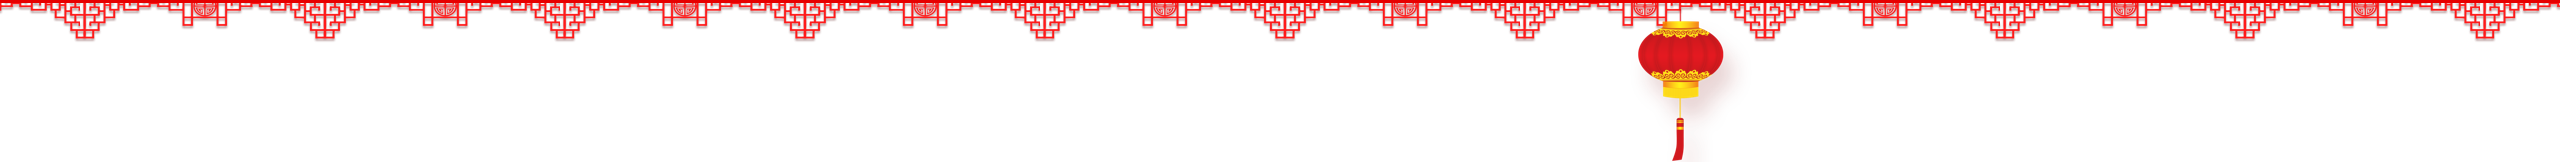
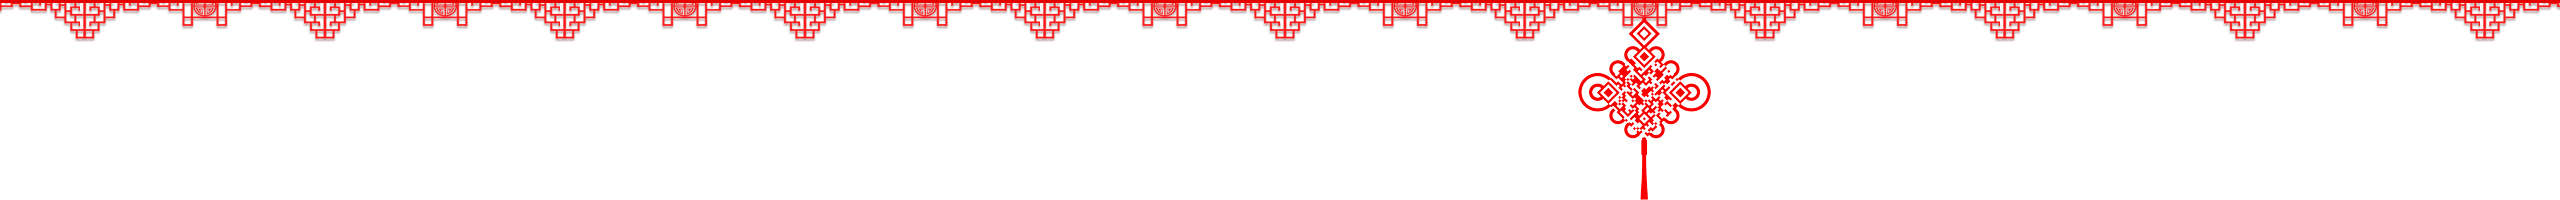
update page

Changed region(s): [[0.0, 0.0, 1.0, 1.0]]

diff --git a/web/src/main/webapp/WEB-INF/templates/_base.html b/web/src/main/webapp/WEB-INF/templates/_base.html
@@ -94,21 +94,22 @@ $(function () {
     {% block head %}<!-- block head  -->{% endblock %}
 </head>
 
-<body style="font-size: 16px; padding: 20px 0;">
-	<div id="main" class="uk-container uk-container-center">
-		<div class="uk-grid" style="margin-top: 10px; margin-bottom: 30px;">
-			<div class="uk-width-1-2">
-				<h1 id="brand"><a href="/">中华诗词</a></h1>
+<body style="font-size: 16px;">
+	<div class="bg-top">
+		<div class="uk-container uk-container-center">
+			<div class="uk-width-1-1">
+				<a href="/" class="logo"></a>
 			</div>
-			<div class="uk-width-1-2">
-			{% if user is null %}
+			<div class="uk-width-1-1">
+				{% if user is null %}
 				<a href="#0" onclick="authFrom('weibo')" class="uk-float-right"><i class="uk-icon-weibo"></i> 微博登录</a>
-			{% else %}
-			    <span class="uk-float-right">欢迎你，{{ user.name }}！ <a href="/auth/signout"><i class="uk-icon-sign-out"></i> 登出</a></span>
-			{% endif %}
+				{% else %}
+			    <span>欢迎你，{{ user.name }}！ <a href="/auth/signout"><i class="uk-icon-sign-out"></i> 登出</a></span>
+				{% endif %}
 			</div>
 		</div>
-
+	</div>
+	<div id="main" class="uk-container uk-container-center">
 		<div class="uk-grid">
 			<div class="uk-width-4-5">
 				朝代：
@@ -159,15 +160,16 @@ $(function () {
             <div class="uk-width-1-3">
             	<p>【微信公众号】<p>
             	<p>关注中华诗词微信公众号，每天清晨为您推送精选诗词。</p>
-            	<p><div style="width: 180px; height: 247px; background-image: url(/static/image/weixin.png); background-repeat: no-repeat;"></div></p>
+            	<p><div style="width: 200px; height: 200px; background-image: url(/static/image/weixin.png); background-repeat: no-repeat;"></div></p>
             </div>
 	    </div>
 
-	    <div class="uk-grid">
-            <div class="uk-width-1-1 uk-text-center">
-            	<p>中华诗词&copy;2014-2017 <a href="/" target="_blank">www.shi-ci.com</a></p>
-            </div>
-	    </div>
+    </div>
+
+    <div class="bg-bottom">
+        <div class="uk-container uk-container-center">
+			<div class="copy">中华诗词&copy;2014-2017 <a href="/" target="_blank">www.shi-ci.com</a></div>
+		</div>
     </div>
 </body>
 </html>

diff --git a/web/src/main/webapp/static/less/main.less b/web/src/main/webapp/static/less/main.less
@@ -16,10 +16,43 @@
 
 // customized less ////////////////////////////////////////////////////////////
 
+div.bg-top {
+	min-width: @utility-container-max-width;
+    height: 200px;
+    background-image: url(/static/image/bg-top.png);
+    background-position: top center;
+    background-repeat: repeat-x;
+    
+    a.logo {
+        background-image: url(/static/image/logo.png);
+        background-repeat: no-repeat;
+        display: block;
+        width: 218px;
+        height: 60px;
+        margin-top: 50px;
+        margin-bottom: 20px;
+        &:hover {
+            opacity: 0.75;
+        }
+    }
+}
+
+div.bg-bottom {
+	min-width: @utility-container-max-width;
+    height: 80px;
+    background-image: url(/static/image/bg-bottom.png);
+    background-position: bottom center;
+    background-repeat: repeat-x;
+    
+    div.copy {
+        margin-top: 20px;
+    }
+}
+
 #q {
 	padding-bottom: 6px;
 	border: none;
-	border-bottom: 1px solid #ad2222;
+	border-bottom: 1px solid @global-link-color;
 	background-color: transparent;
 	&:focus {
 		outline: none;
@@ -36,7 +69,7 @@ div.x-poem {
 		> div.x-cover {
 			width: 640px;
 			height: 360px;
-			box-shadow: 0 0 10px 10px rgba(255, 250, 240, 1) inset;
+			box-shadow: 0 0 10px 10px #fff inset;
 		}
 	}
 
@@ -77,10 +110,10 @@ div.x-poem {
 
 // customize variables.less
 
-@base-body-background:                          #fffaf0;
+@base-body-background:                          #fff;
 @base-body-color:                               #444;
 
-@global-link-color:                             #ad2222;
+@global-link-color:                             #d20e16;
 @global-link-hover-color:                       darken(@global-link-color, 10%);
 
 @base-link-hover-text-decoration:               none;
